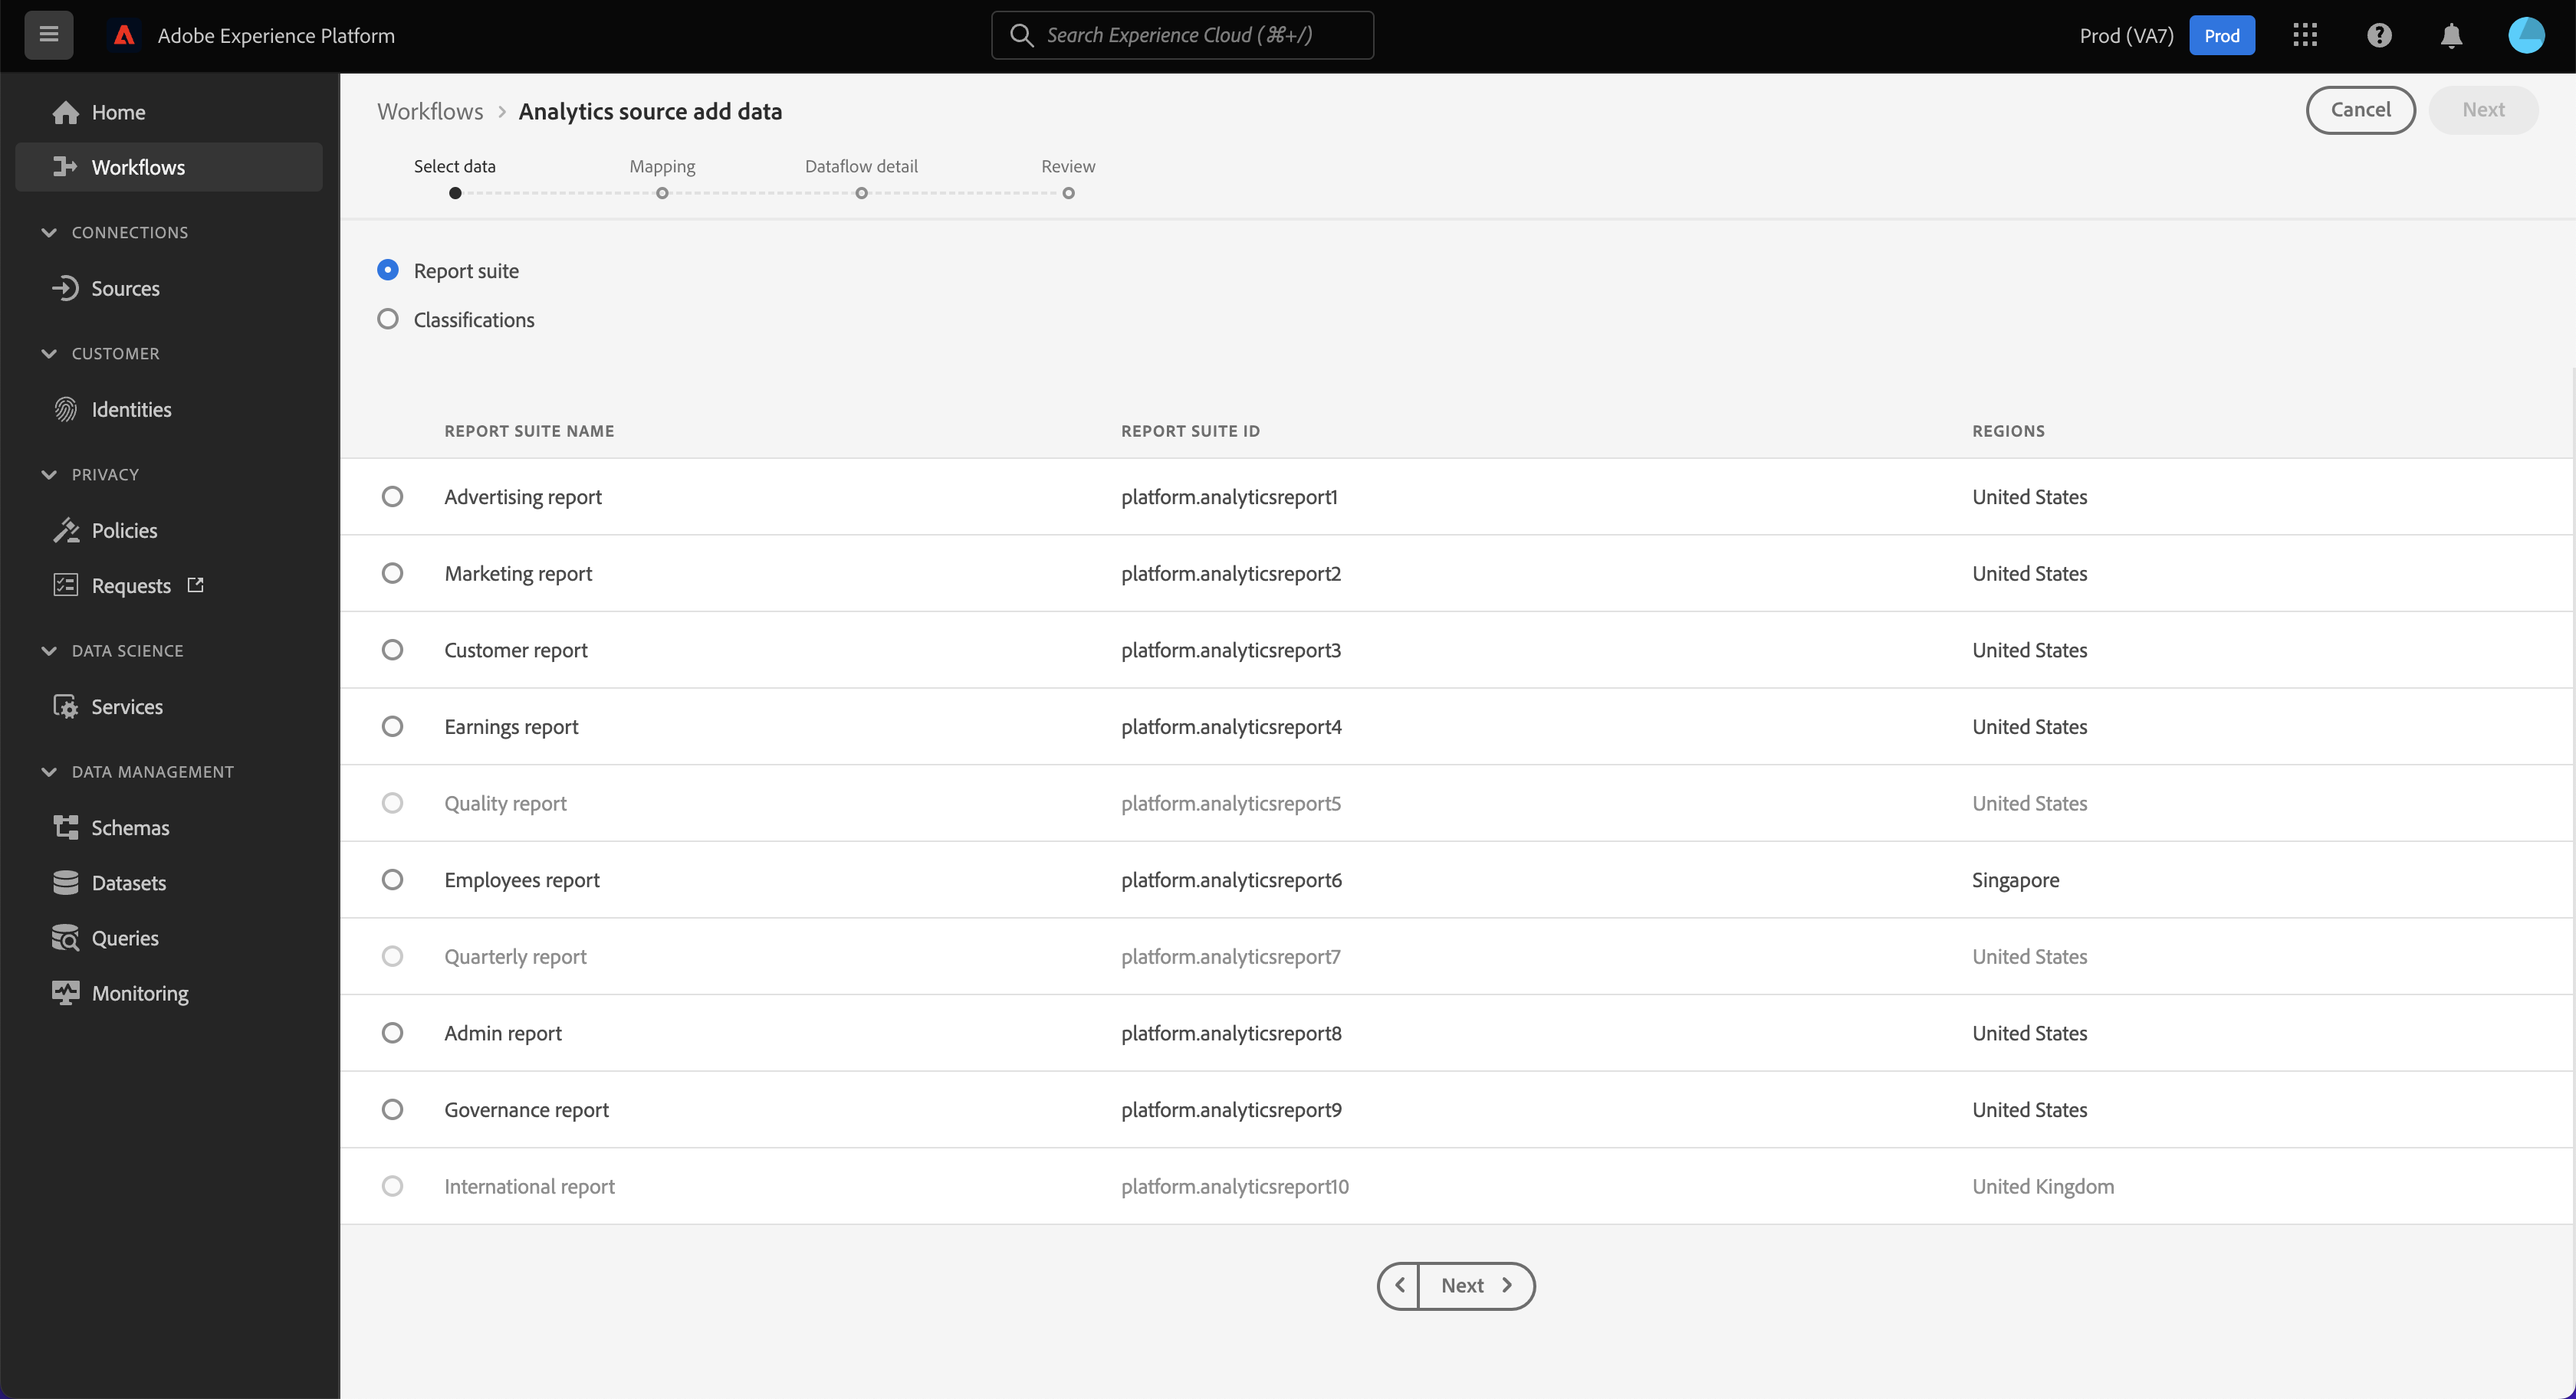
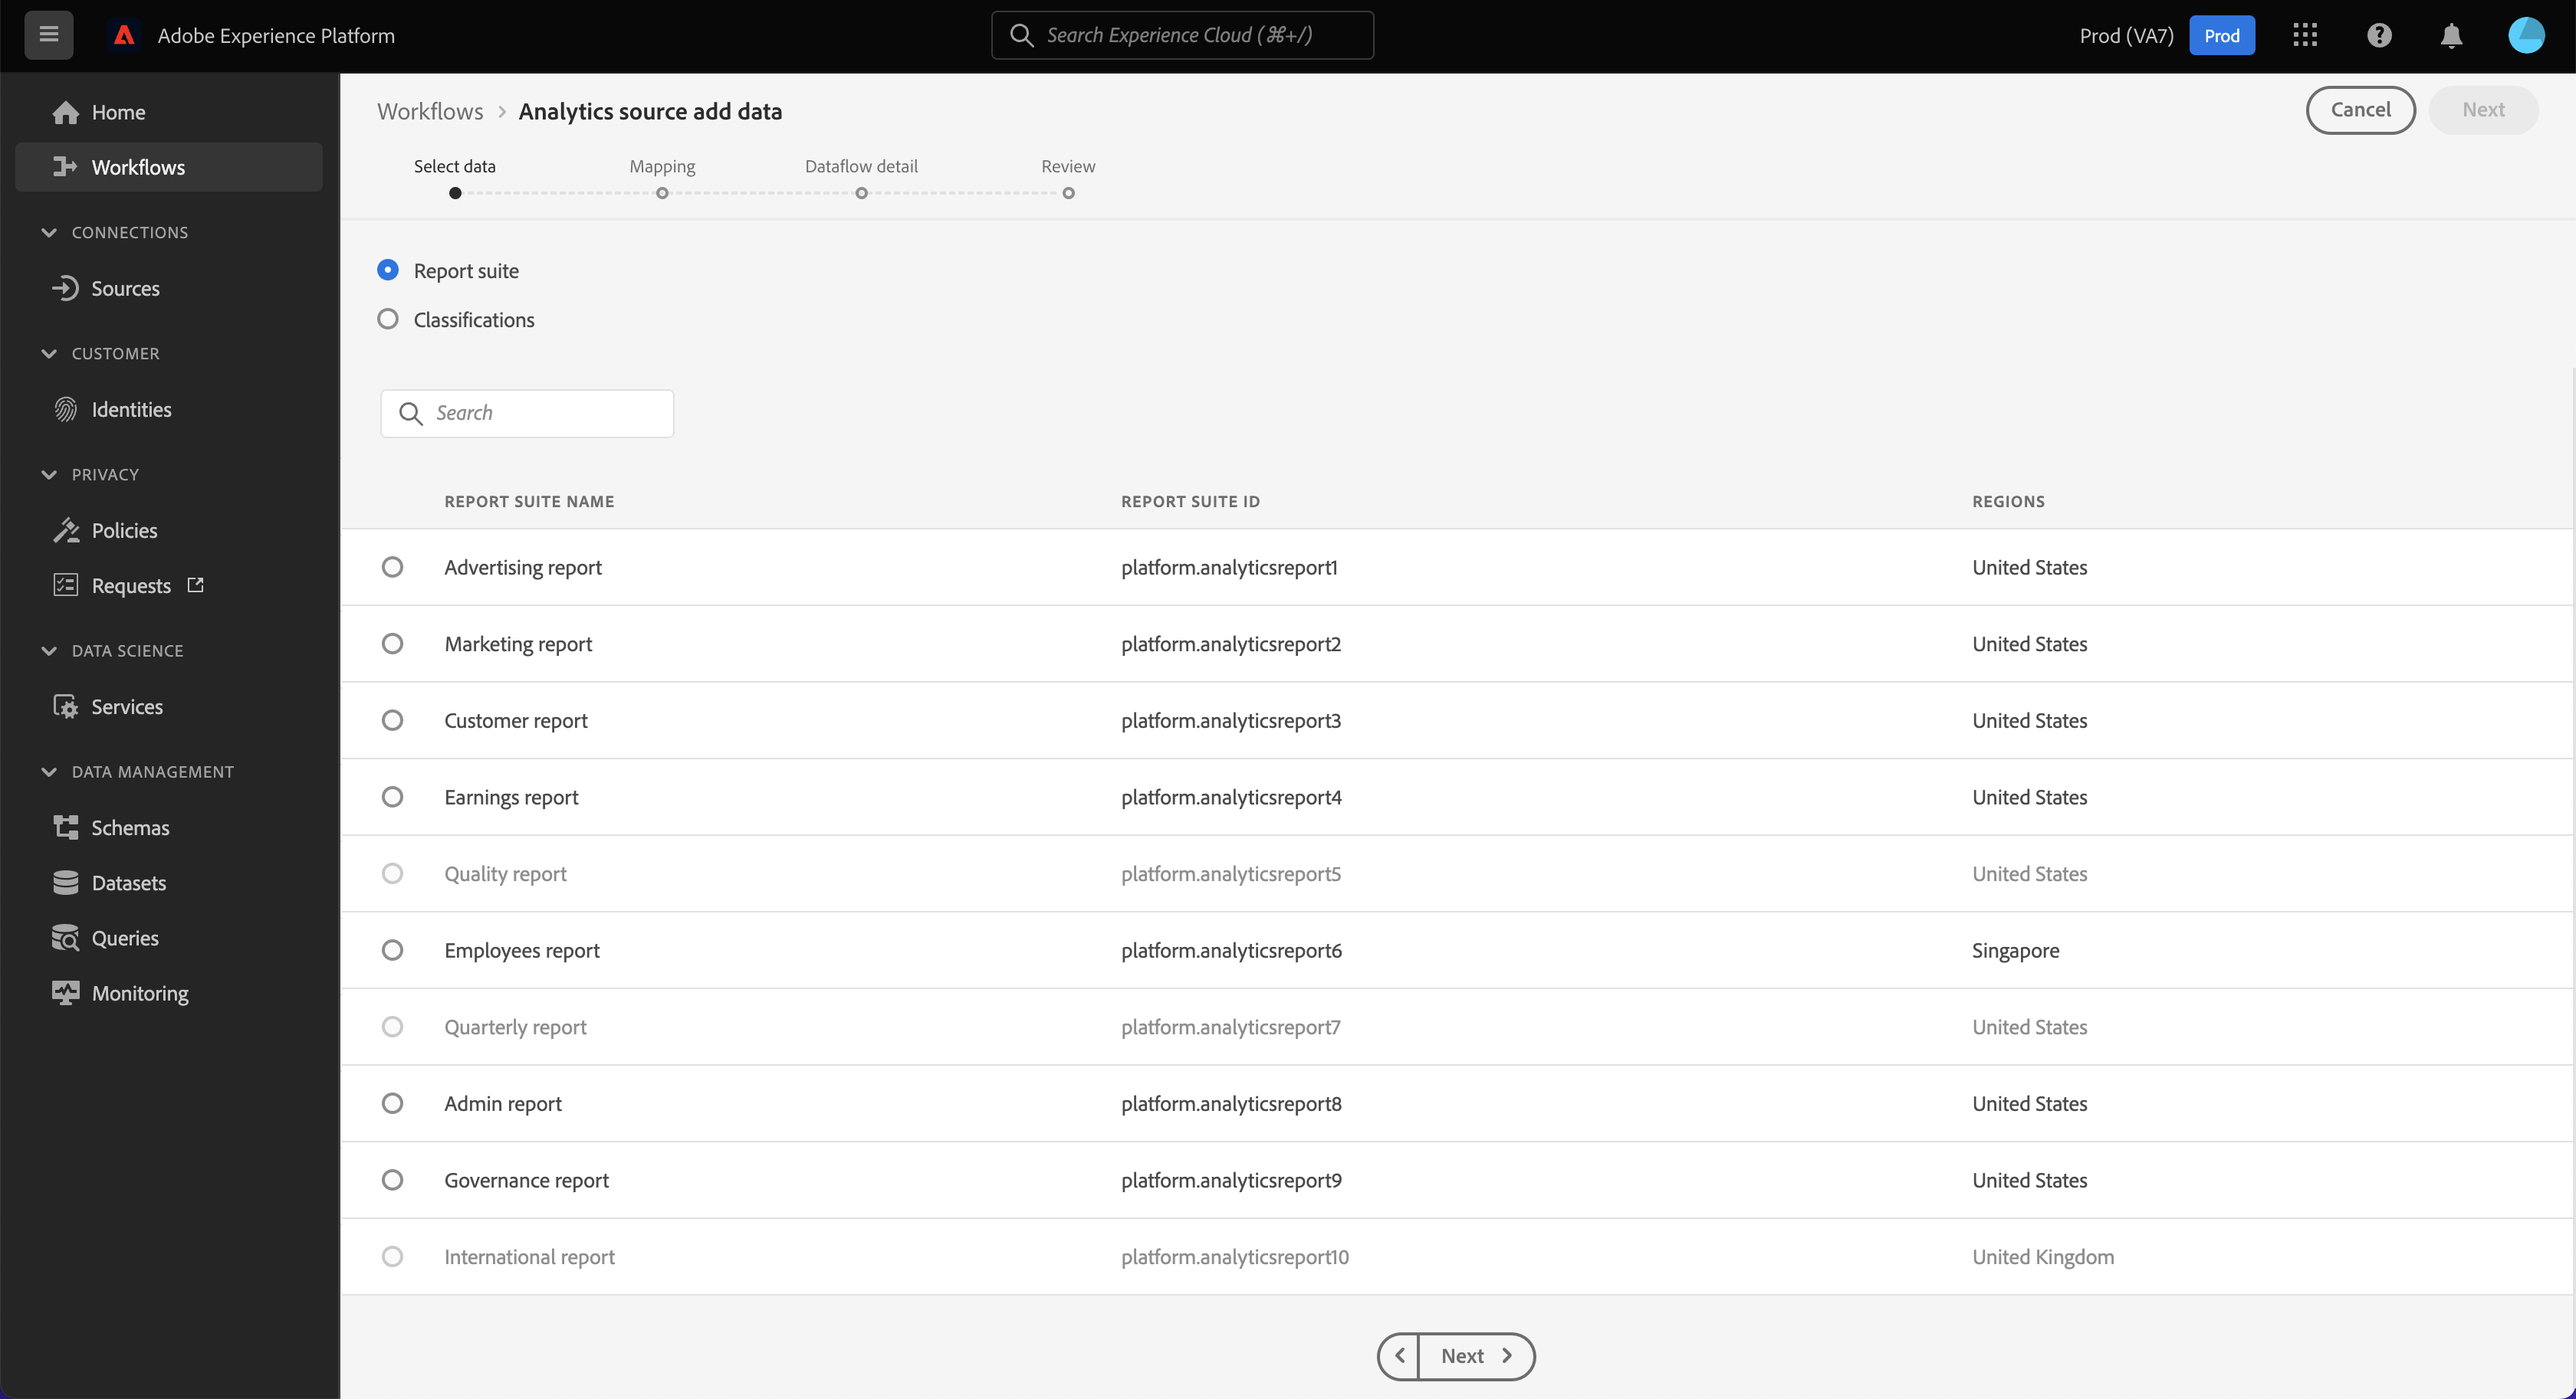
Update release notes.

diff --git a/help/release-notes/latest.md b/help/release-notes/latest.md
@@ -18,9 +18,9 @@ These release notes cover the release period of October through early November, 
 | **Data storytelling: Generate slide presentations from Workspace reports** | You can now automatically generate a slide presentation (in .pptx format) that is based on an Analysis Workspace report. Workspace detects key insights in your report and converts them into stakeholder-ready slides.<p>This feature reduces the time and effort required to surface findings, build executive narratives, and communicate business impact.</p><p>For more information, see [Data storytelling: Generate slide presentations from Workspace reports](/help/analysis-workspace/curate-share/generate-slides.md).</p> | October 22, 2025 | January 2026 |
 | **Real-time reporting** | [Real-time reporting in Customer Journey Analytics](/help/components/real-time/real-time.md) displays and updates data and visualizations within one or more panels in Analysis Workspace in real time. | September 18,  2025 (Originally planned to release on August 15, 2025) | October 22, 2025 |
 | **Support for data mirror**  | With support for model-based schemas and change data capture (CDC) functionality for specific source connectors in Experience Platform, Customer Journey Analytics will be able to support [data mirror](/help/data-mirror/data-mirror.md) functionality of data warehouse solutions like [!DNL Snowflake], [!DNL Azure Databricks], and [!DNL Google BigQuery].<p>Contact your Adobe Account Team to access the beta.</p> | Beta release: September 24, 2025 | TBD |
-| **Stitching in connections** | Simplifies Customer Journey Analytics stitching. Instead of duplicating a dataset and applying stitching on the duplicated dataset, stitching is now done on the ingestion of data into Customer Journey Analytics, which removes the requirement of duplicated datasets and schemas. <p>Furthermore, instead of having to request stitching through customer support, you can now initiate stitching yourself from an updated Connections UI.</p><p> *The previously communicated releases dates are pushed due to additional efforts required. The new release dates overlap with the holiday season, which introduces additional release constraints. A phased rollout is now planned to ensure stability and minimize disruption during the holiday period.*</p> <p>(Documentation link to follow.)</p> | October 28, 2025 | April 30, 2026 |
+| **Stitching in connections** | Simplifies Customer Journey Analytics stitching. Instead of duplicating a dataset and applying stitching on the duplicated dataset, stitching is now done on the ingestion of data into Customer Journey Analytics, which removes the requirement of duplicated datasets and schemas. <p>Furthermore, instead of having to request stitching through customer support, you can now [initiate stitching yourself from an updated Connections UI](/help/stitching/use-stitching-ui.md).</p><p> *The previously communicated releases dates are pushed due to additional efforts required. The new release dates overlap with the holiday season, which introduces additional release constraints. A phased rollout is now planned to ensure stability and minimize disruption during the holiday period.*</p> | October 28, 2025 | April 30, 2026 |
 | **Streaming media services: Support schedule data** | You can now upload scheduled data of past live Streaming Media content to more easily and accurately track viewership.<p>The following are examples of live content that are supported with schedule data upload:</p><ul><li>FAST (Free Ad Supported TV) platforms</li><li>Local streams</li><li>Live sports</li></ul><p>Uploading schedule data allows you to track viewership data for individual programs that ran during the time you designate in the upload file. You can even gather viewership data for specific topics or program segments.</p><p>These capabilities are available regardless of how you implemented Streaming Media Collection.</p><p>Previously, it was difficult to accurately tie a given session to specific programs when analyzing live content, and it wasn't possible to tie a given session to individual topics or program segments.</p><p>For more information, see [Upload schedule data to track live content](https://experienceleague.adobe.com/en/docs/media-analytics/using/media-use-cases/track-schedule-data)</p>| October 29, 2025 | First half of 2026<p>(Originally planned to release on October 29, 2025)</p> |
-| **Analytics source connector: Search report suites in Experience Platform** | Customers with a high number of report suites can now search for the report suite they want to connect to within the Analytics Source Connector dataflow workflow. <p>Previously, customers had to paginate through a potentially long list of report suites.</p><p>(Documentation link to follow.) | | October 30, 2025 |
+| **Analytics source connector: Search report suites in Experience Platform** | If you do have a high number of report suites you can now [search for the report suite](/help/data-ingestion/analytics.md#set-up-an-adobe-analytics-source-connector) you want to connect to within the Analytics Source Connector dataflow workflow. | | October 30, 2025 |
 | **Streaming Media: Updated XDM fields for collecting Streaming Media data into Adobe Experience Platform** | When collecting Streaming Media data into Adobe Experience Platform, the XDM field paths shown under the heading of "XDM Field Path" of the Streaming Media parameters documentation should no longer be used. Instead, customers who implemented the Analytics source connector to collect Streaming Media data into Platform before May 9, 2025 must migrate their existing configurations to the mediaReporting field paths, as shown under the heading of "Reporting XDM Field Path" of the Streaming Media parameters documentation.<p> These field paths are found on the following pages and are marked as "Deprecated": [Audio and video parameters](https://experienceleague.adobe.com/en/docs/media-analytics/using/implementation/variables/audio-video-parameters), [Ad parameters](https://experienceleague.adobe.com/en/docs/media-analytics/using/implementation/variables/ad-parameters), [Chapter parameters](https://experienceleague.adobe.com/en/docs/media-analytics/using/implementation/variables/chapter-parameters), [Player state parameters](https://experienceleague.adobe.com/en/docs/media-analytics/using/implementation/variables/player-state-parameters), and [Quality parameters](https://experienceleague.adobe.com/en/docs/media-analytics/using/implementation/variables/quality-parameters). (No action is required for customers who implement the Analytics source connector after May 9, 2025, and are already using only mediaReporting XDM paths.)</p><p>Data ingestion on the deprecated XDM field paths will continue until the end of October 2025. After that time, deprecated field paths will be fully removed and no longer visible in the Adobe Experience Platform Schema UI, and data will be sent only using the mediaReporting field paths.</p><p>For more information, see [Migrate an Analytics Source Connector implementation to updated XDM Streaming Media fields](https://experienceleague.adobe.com/en/docs/media-analytics/using/media-use-cases/xdm-updates/updated-xdm-fields).</p><p>Please contact your Adobe Consulting Services or Account team for migration support. </p> |  | October 2025 |
 
 ## Fixes in Customer Journey Analytics

diff --git a/help/data-ingestion/analytics.md b/help/data-ingestion/analytics.md
@@ -50,7 +50,7 @@ To create an Adobe Analytics source connector:
 
     ![Adobe Experience Platform window with Sources selected along with Adobe applications and Add data highlighted.](./assets/sources-overview.png)
 
-4. Select **[!UICONTROL Report suite]**. From the list of report suites, select the one you want to use. 
+4. Select **[!UICONTROL Report suite]**. From the list of report suites, select the one you want to use.<br/> Alternatively, you can use ![Search](/help/assets/icons/Search.svg) **[!UICONTROL _Search_]** to search for a report suite.
 
     ![Adobe Experience Platform window showing the Report suites list](./assets/report-suites.png)
 
